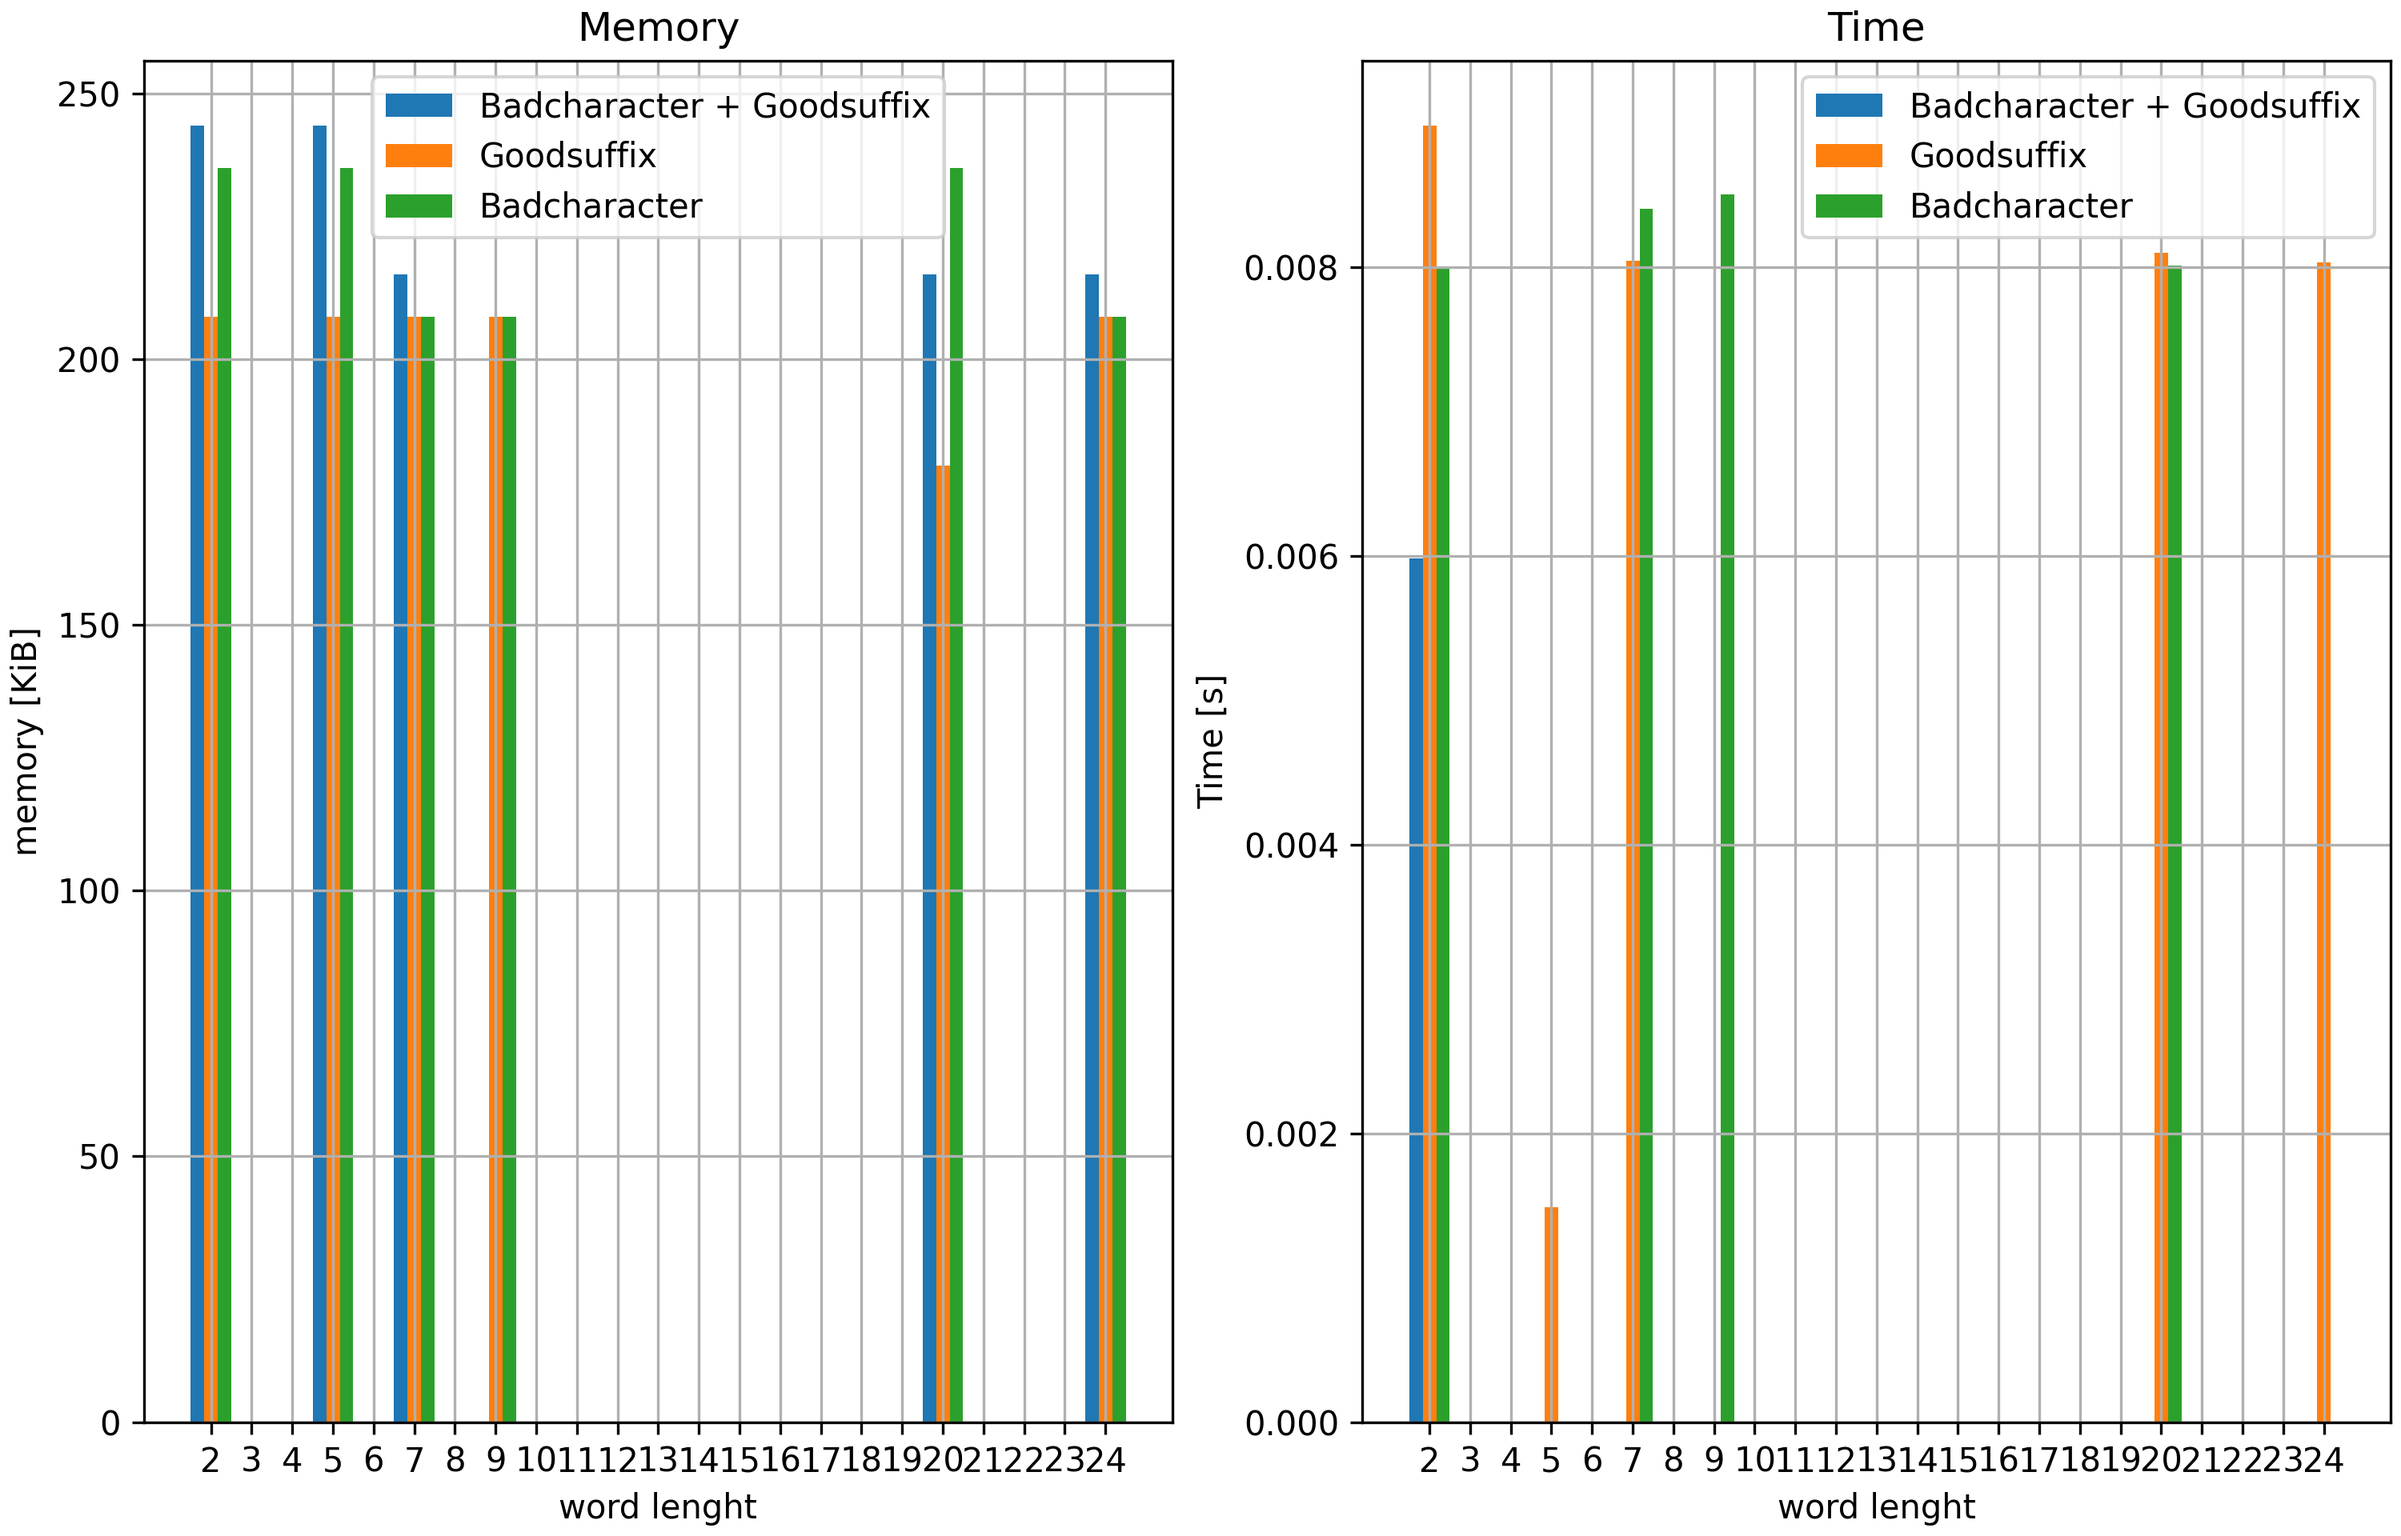
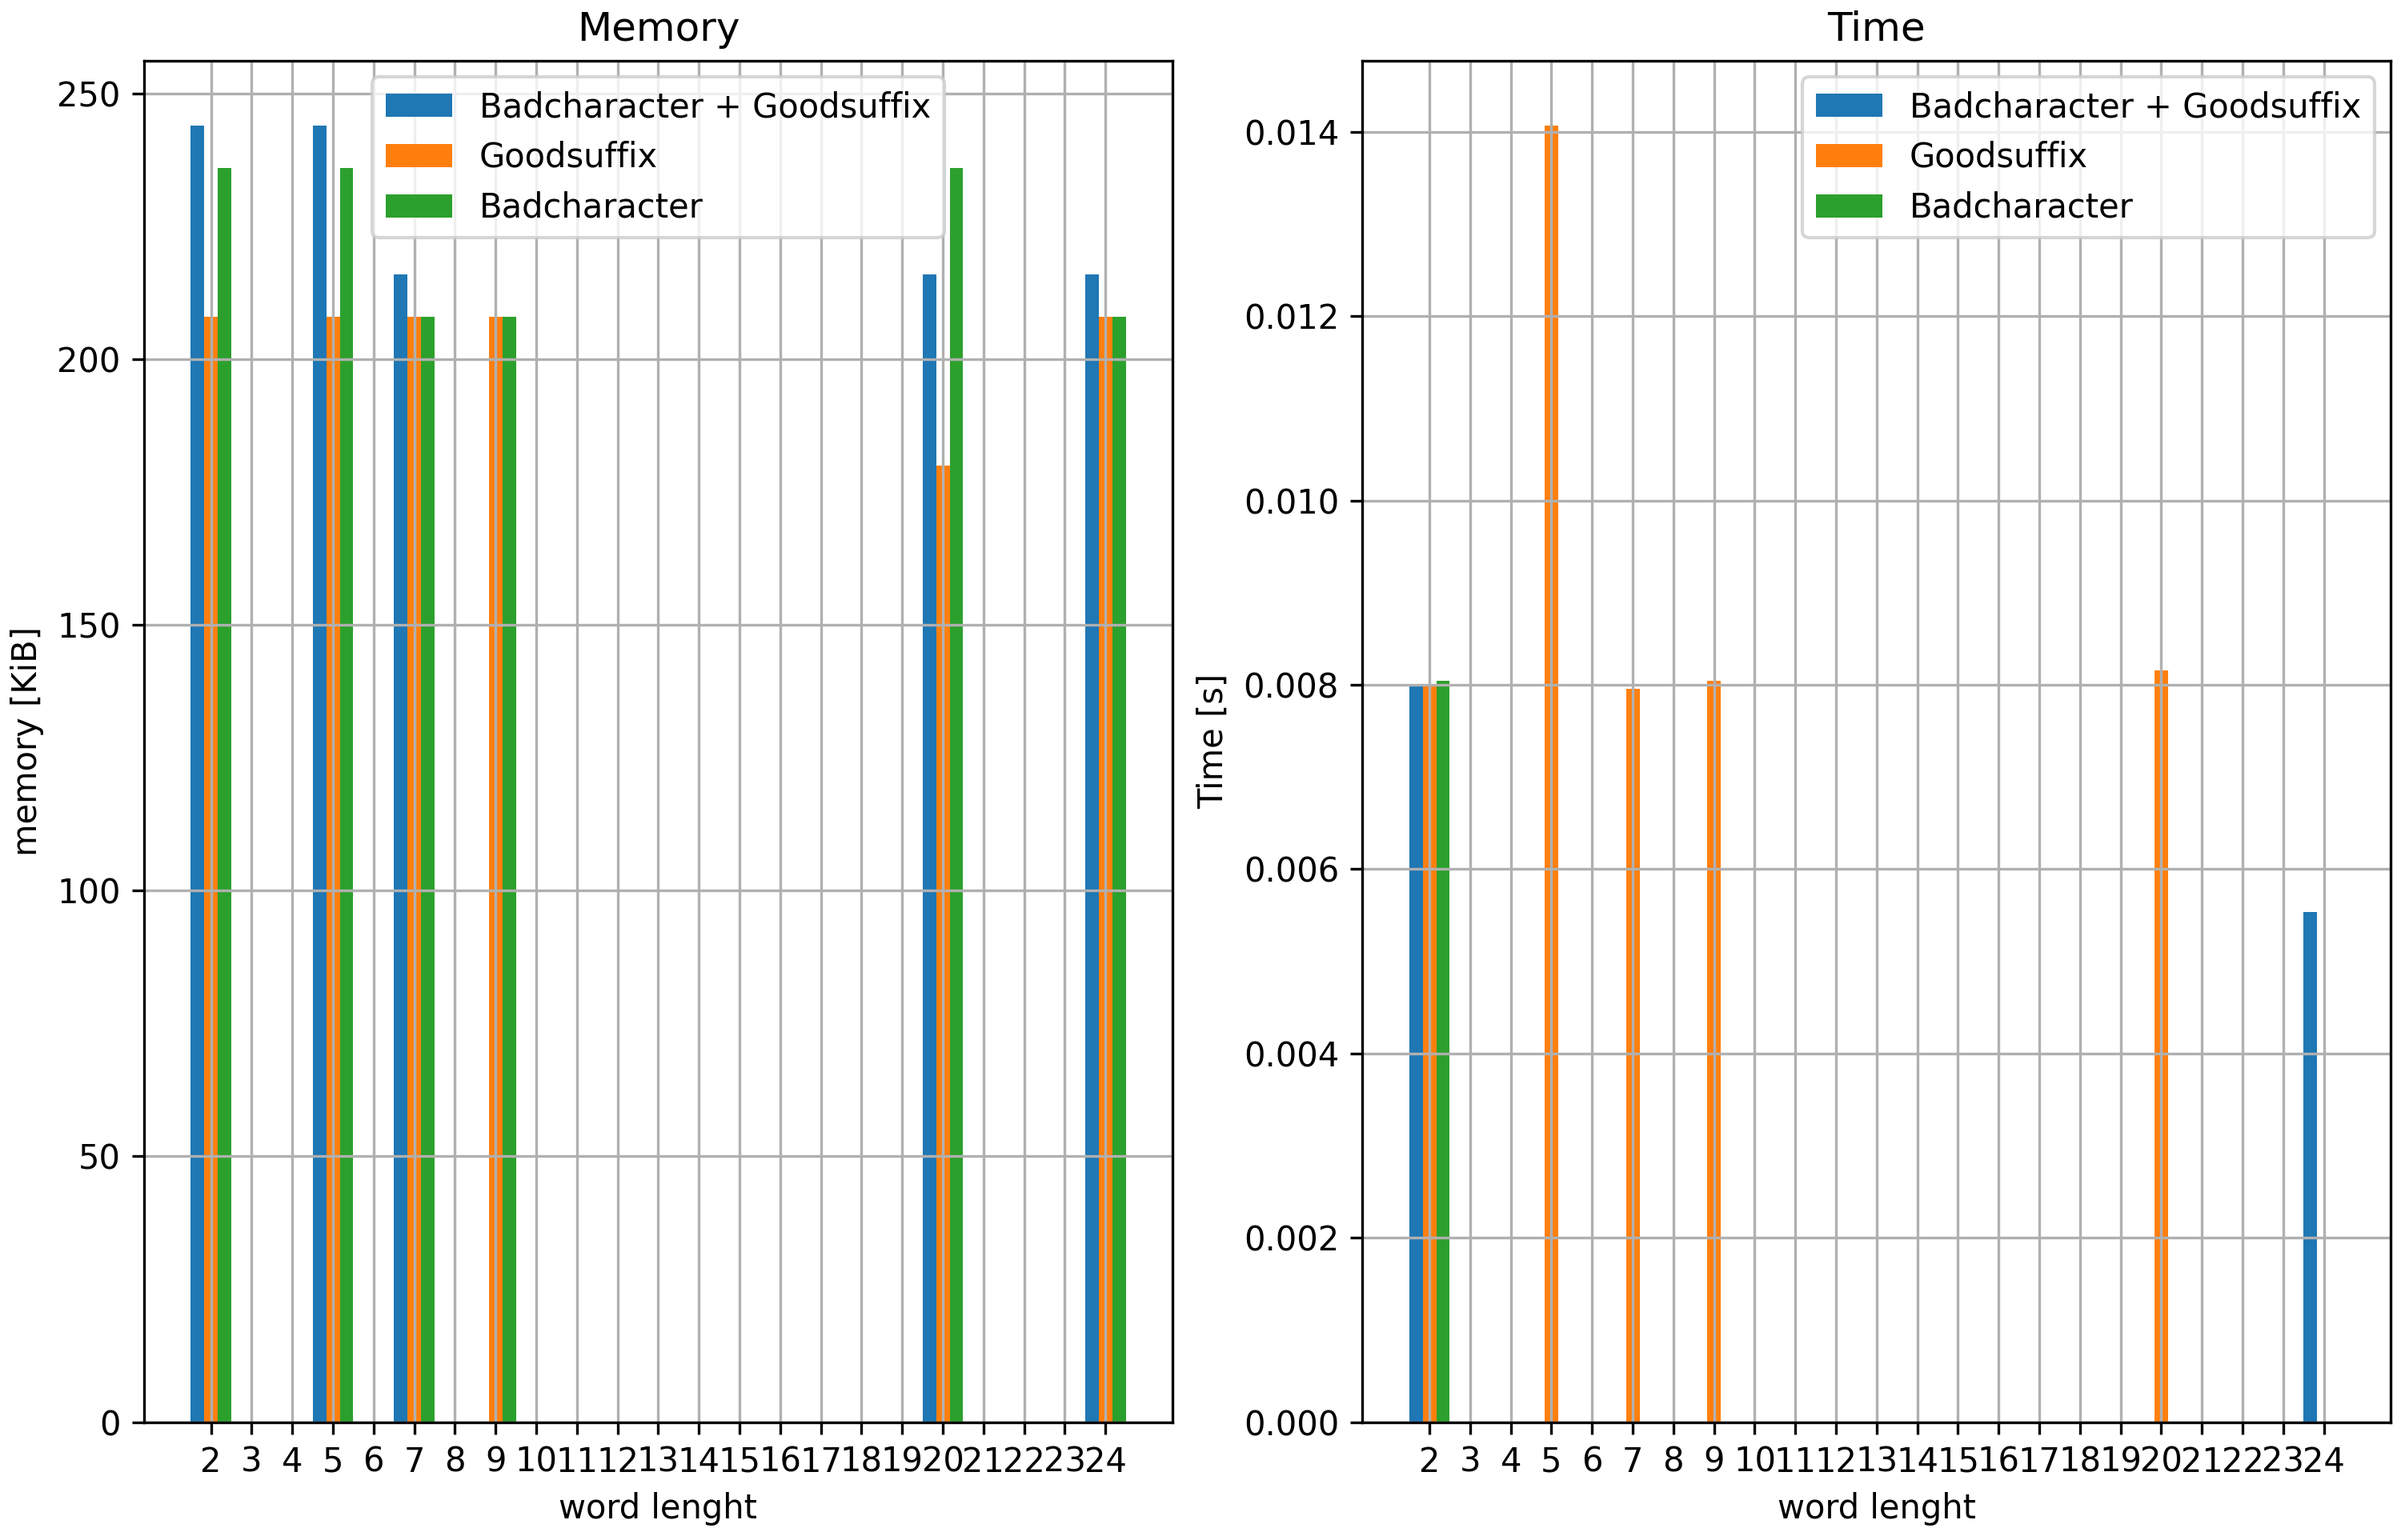
Add table

diff --git a/Test_table.html b/Test_table.html
@@ -1,0 +1,132 @@
+<table border="1" class="dataframe">
+  <thead>
+    <tr style="text-align: right;">
+      <th></th>
+      <th>Heuristic</th>
+      <th>Word lenght</th>
+      <th>Time</th>
+      <th>Memory</th>
+    </tr>
+  </thead>
+  <tbody>
+    <tr>
+      <th>6</th>
+      <td>Goodsuffix</td>
+      <td>24</td>
+      <td>0.000000</td>
+      <td>208</td>
+    </tr>
+    <tr>
+      <th>11</th>
+      <td>Badcharacter</td>
+      <td>24</td>
+      <td>0.000000</td>
+      <td>208</td>
+    </tr>
+    <tr>
+      <th>7</th>
+      <td>Badcharacter + Goodsuffix</td>
+      <td>24</td>
+      <td>0.005532</td>
+      <td>216</td>
+    </tr>
+    <tr>
+      <th>9</th>
+      <td>Badcharacter + Goodsuffix</td>
+      <td>20</td>
+      <td>0.000000</td>
+      <td>216</td>
+    </tr>
+    <tr>
+      <th>12</th>
+      <td>Badcharacter</td>
+      <td>20</td>
+      <td>0.000000</td>
+      <td>236</td>
+    </tr>
+    <tr>
+      <th>8</th>
+      <td>Goodsuffix</td>
+      <td>20</td>
+      <td>0.008157</td>
+      <td>180</td>
+    </tr>
+    <tr>
+      <th>13</th>
+      <td>Badcharacter</td>
+      <td>9</td>
+      <td>0.000000</td>
+      <td>208</td>
+    </tr>
+    <tr>
+      <th>10</th>
+      <td>Goodsuffix</td>
+      <td>9</td>
+      <td>0.008046</td>
+      <td>208</td>
+    </tr>
+    <tr>
+      <th>14</th>
+      <td>Badcharacter</td>
+      <td>7</td>
+      <td>0.000000</td>
+      <td>208</td>
+    </tr>
+    <tr>
+      <th>4</th>
+      <td>Badcharacter + Goodsuffix</td>
+      <td>7</td>
+      <td>0.000000</td>
+      <td>216</td>
+    </tr>
+    <tr>
+      <th>5</th>
+      <td>Goodsuffix</td>
+      <td>7</td>
+      <td>0.007955</td>
+      <td>208</td>
+    </tr>
+    <tr>
+      <th>16</th>
+      <td>Badcharacter</td>
+      <td>5</td>
+      <td>0.000000</td>
+      <td>236</td>
+    </tr>
+    <tr>
+      <th>0</th>
+      <td>Badcharacter + Goodsuffix</td>
+      <td>5</td>
+      <td>0.000000</td>
+      <td>244</td>
+    </tr>
+    <tr>
+      <th>1</th>
+      <td>Goodsuffix</td>
+      <td>5</td>
+      <td>0.014071</td>
+      <td>208</td>
+    </tr>
+    <tr>
+      <th>2</th>
+      <td>Badcharacter + Goodsuffix</td>
+      <td>2</td>
+      <td>0.007984</td>
+      <td>244</td>
+    </tr>
+    <tr>
+      <th>3</th>
+      <td>Goodsuffix</td>
+      <td>2</td>
+      <td>0.007998</td>
+      <td>208</td>
+    </tr>
+    <tr>
+      <th>15</th>
+      <td>Badcharacter</td>
+      <td>2</td>
+      <td>0.008043</td>
+      <td>236</td>
+    </tr>
+  </tbody>
+</table>

diff --git a/src/business_logic/util/graph.py b/src/business_logic/util/graph.py
@@ -49,7 +49,6 @@ class Graph:
             df_h = df[df['Heuristic'] == h]
             ax[0].bar(df_h['Word lenght'] + unit * width + move_unit , df_h['Memory'], label=h, width = width)  # Plot some data on the axes.
             ax[1].bar(df_h['Word lenght'] + unit * width + move_unit , df_h['Time'], label=h, width = width)  # Plot some data on the axes.
-
             unit += 1
 
         ax[0].legend();  # Add a legend.
@@ -57,4 +56,8 @@ class Graph:
 
         plt.savefig('Test_figure.png', dpi=300)
         plt.show()
+
+        # Export table
+        df = df.sort_values(by=['Word lenght','Time','Memory'], ascending=[False,True,True])
+        df.to_html('Test_table.html')
         
